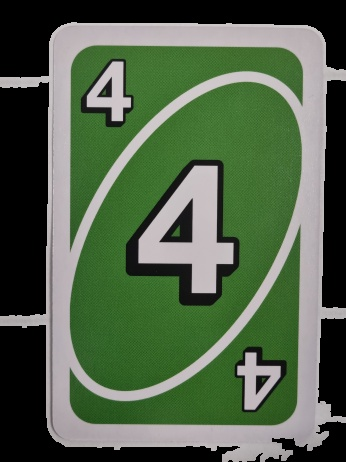
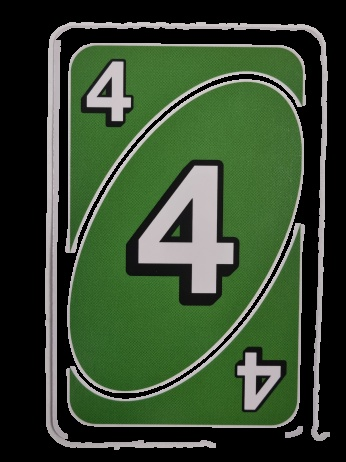
nästan edge

diff --git a/Training UNO/train.py b/Training UNO/train.py
@@ -10,15 +10,18 @@ def resize(img, scale_percent=.05):
     return cv.resize(img, dim, interpolation=cv.INTER_AREA)
 
 img = resize(cv.imread(r'C:\Users\eyoalxa\Documents\Python OpenCV\OpenCV Course\Photos\20230406_152117.jpg'))
+#cv.imshow('UNO', img)
 
 grey = cv.cvtColor(img, cv.COLOR_BGR2GRAY)
-blur = cv.GaussianBlur(grey, (5,5), cv.BORDER_DEFAULT)
+blur = cv.GaussianBlur(grey, (7,7), cv.BORDER_DEFAULT)
 
-t_lower = 50  # Lower Threshold
-t_upper = 200  # Upper threshold
+t_lower = 70  # Lower Threshold
+t_upper = 255  # Upper threshold
 aperture_size = 5  # Aperture size
 
-canny = cv.Canny(blur, 50, 200, apertureSize=aperture_size)
+canny = cv.Canny(blur, t_lower, t_upper, apertureSize=aperture_size)
+
+cv.imshow('canny', canny)
 
 # Dilate the edges to close any gaps in the white outline
 kernel = np.ones((5,5),np.uint8)
@@ -26,27 +29,23 @@ canny = cv.dilate(canny,kernel,iterations = 1)
 
 ret, thresh = cv.threshold(canny, 125, 255, cv.THRESH_BINARY)
 contours, hierarchies = cv.findContours(thresh, cv.RETR_EXTERNAL, cv.CHAIN_APPROX_NONE) 
+#cv.imshow('Canny', canny)
 
-cv.imshow('th', thresh)
+mask = np.zeros(shape=img.shape, dtype='uint8')
 
-# Find the longest contour
-max_contour = None
-max_length = 0
-for contour in contours:
-    length = cv.arcLength(contour, True)
-    if length > max_length:
-        max_length = length
-        max_contour = contour
+cv.drawContours(mask, contours, -1, (255,255,255), thickness=cv.FILLED)
 
-# Draw the longest contour on the mask
-mask = np.zeros(shape=img.shape[:2], dtype='uint8')
-cv.drawContours(mask, [max_contour], -1, (255,255,255), thickness=cv.FILLED)
+#cv.imshow('A', img)
 
-# Copy the original image onto a blank image using the mask
-output = np.zeros(shape=img.shape, dtype='uint8')
-cv.copyTo(img, mask, output)
+#cv.imshow('A', mask)
 
-# Show the output image
-cv.imshow('Output', output)
-cv.imwrite(PATH, output)
+blank = np.zeros(shape=img.shape, dtype='uint8')
+blank[:] = (0, 0, 0)
+
+cv.copyTo(img, mask, blank)
+cv.normalize(mask.copy(), None, 0, 255, cv.NORM_MINMAX, cv.CV_8UC1)
+
+cv.imshow('Blank', blank)
+cv.imshow('Contours', mask)
+cv.imwrite(PATH, blank)
 cv.waitKey(0)
